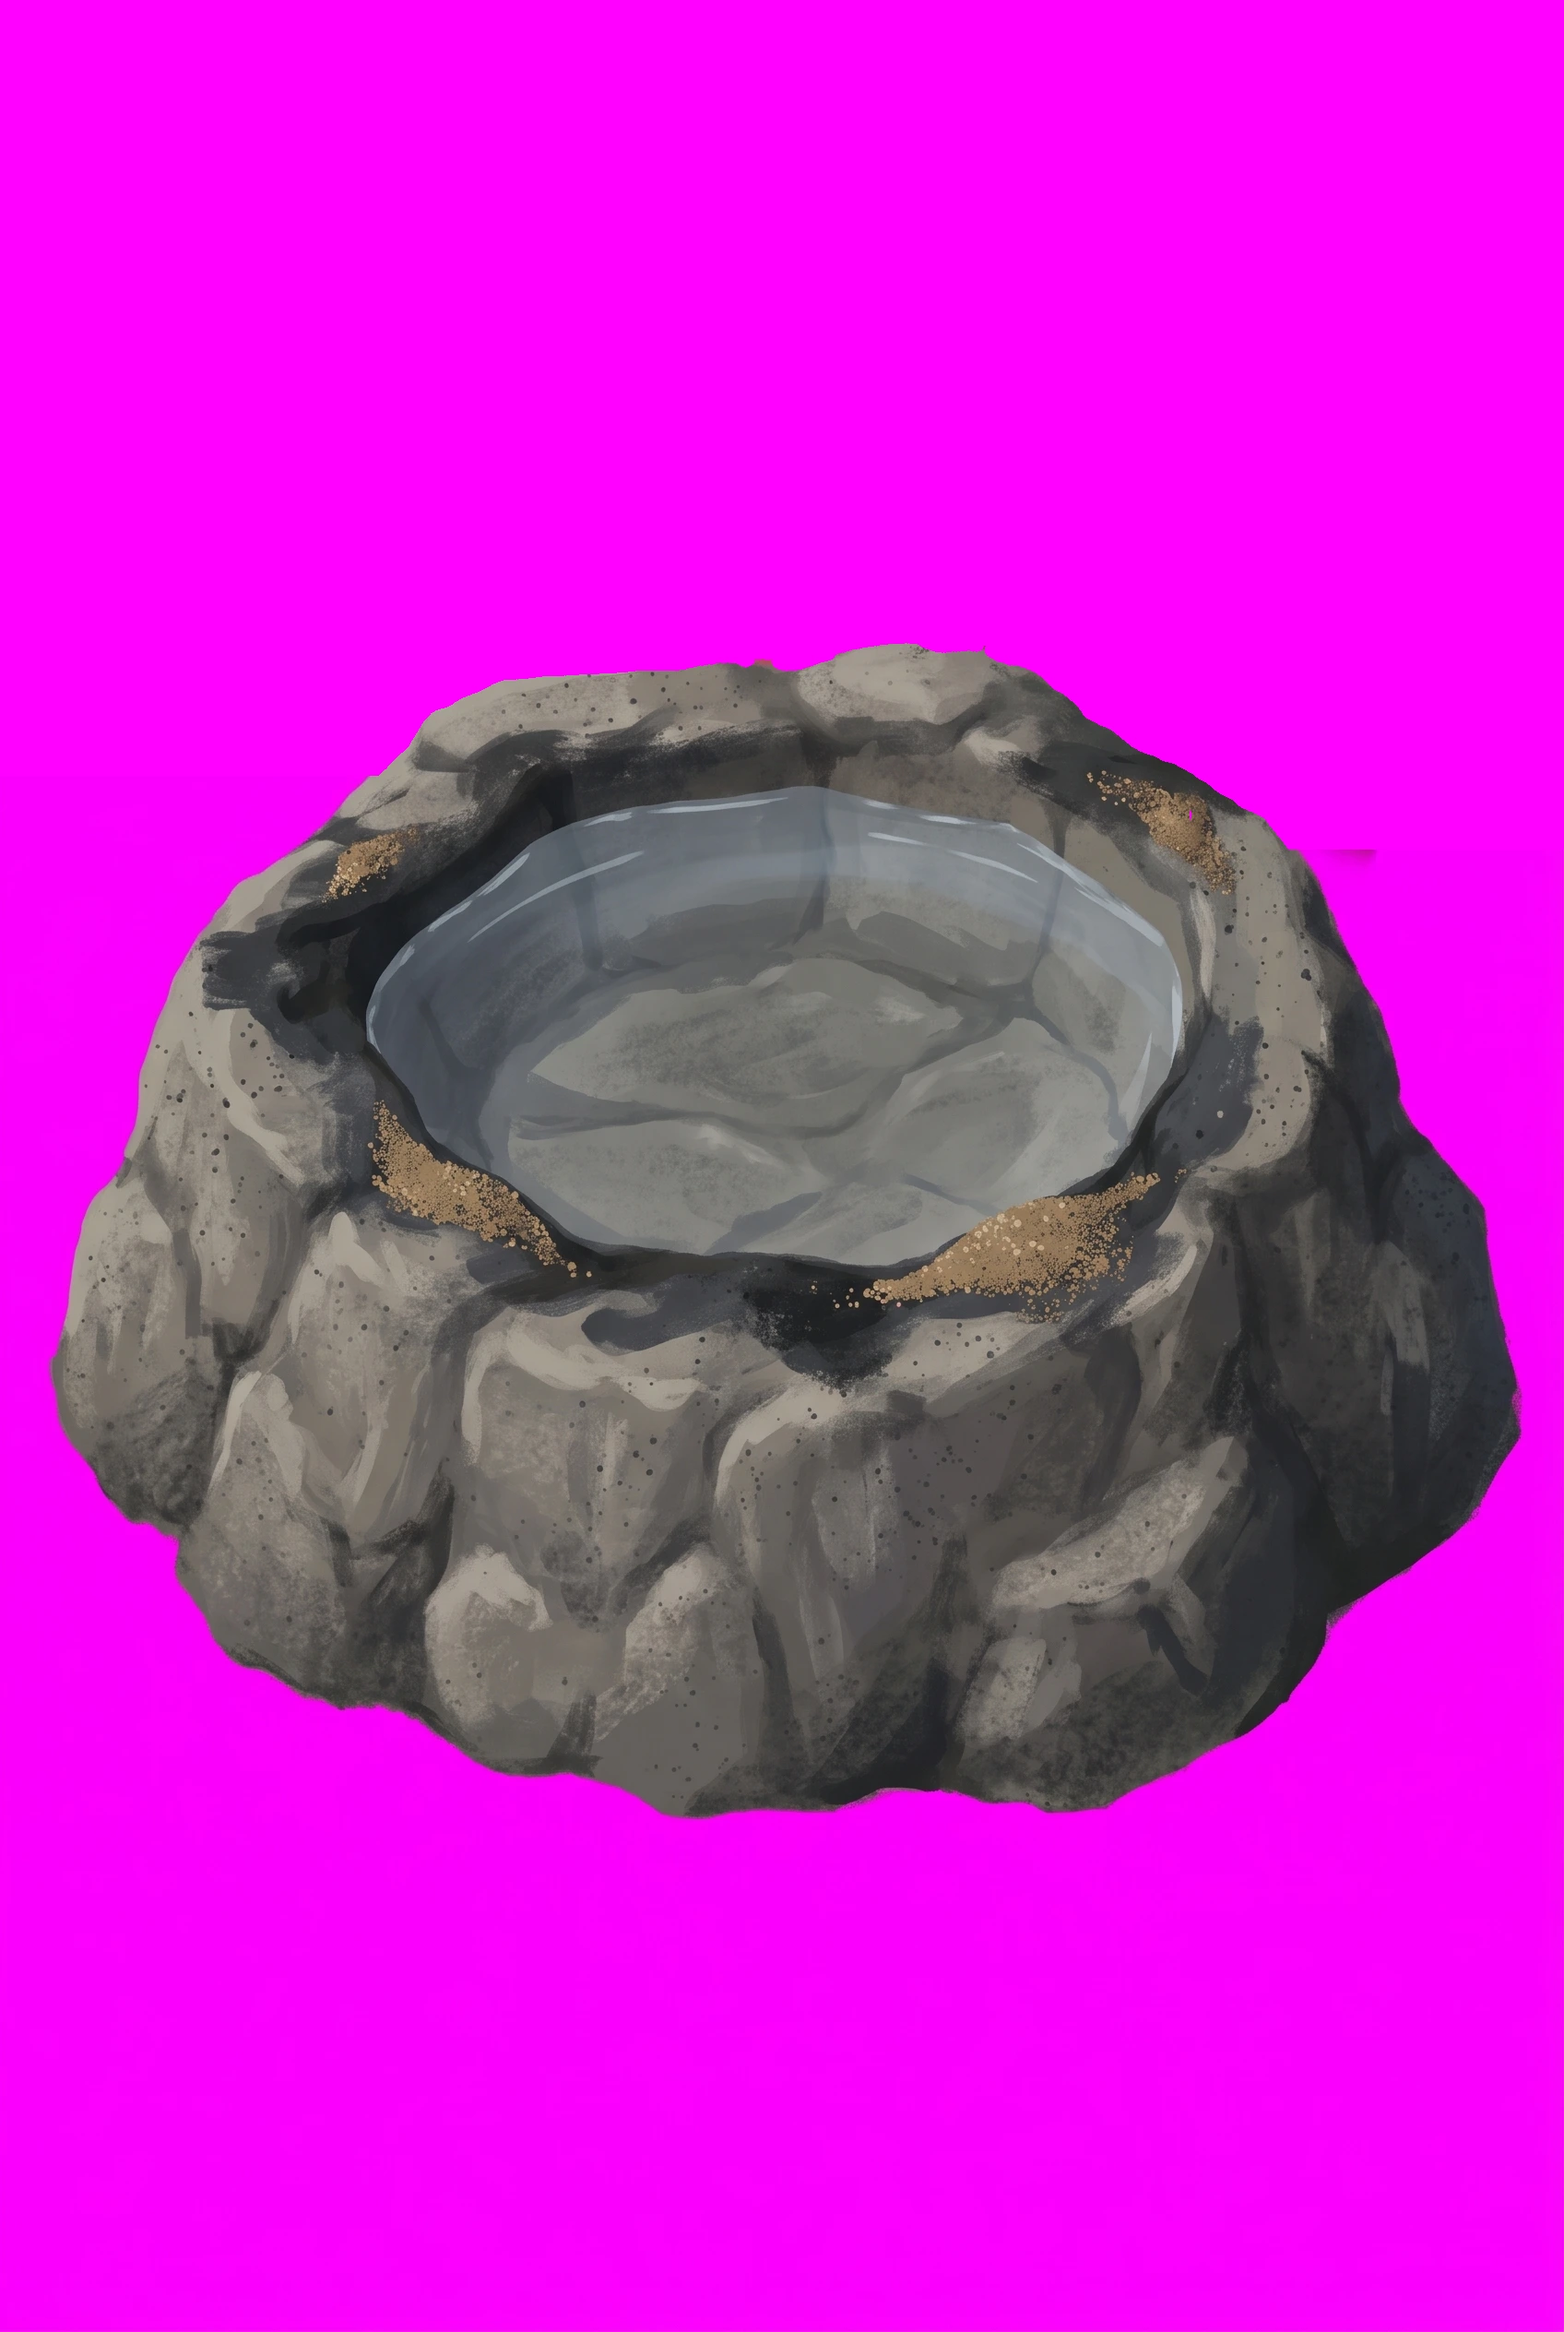
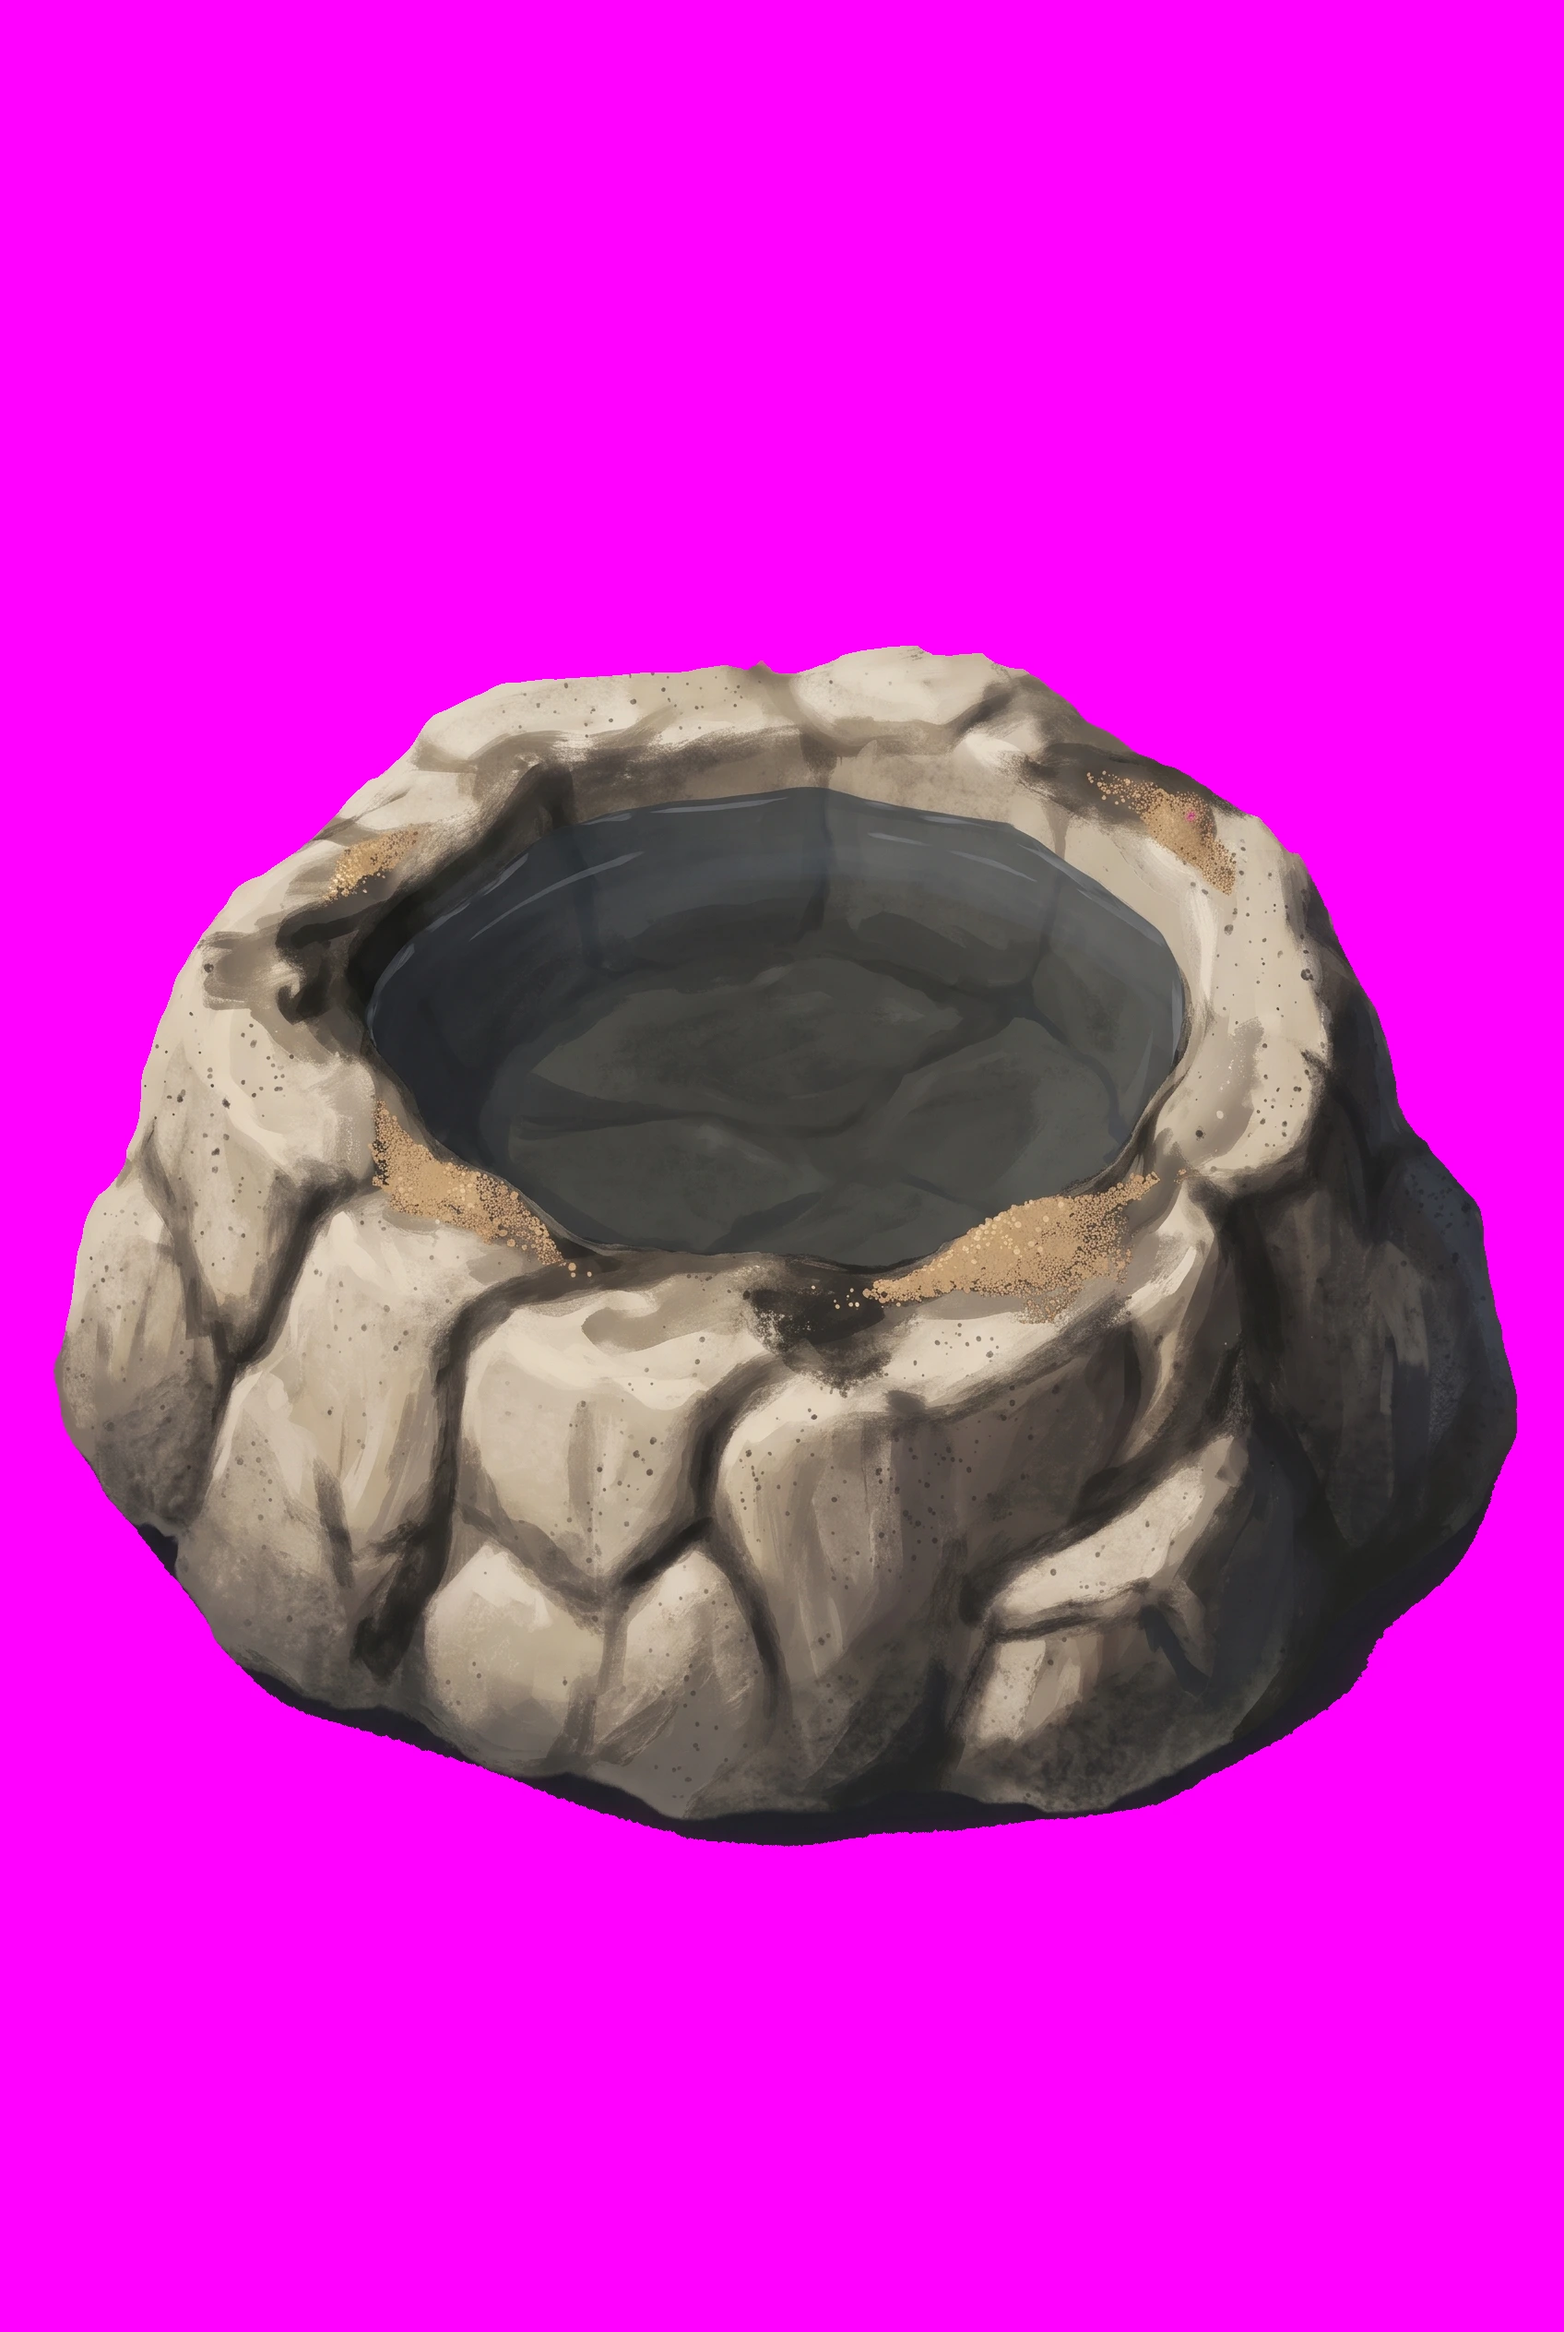
feat: the cave's rock pool, repainted lit
Claude-Session: https://claude.ai/code/session_01NQk9Q1WZoZfDzoRioyXby1

diff --git a/docs/instructions/repaint-queue.md b/docs/instructions/repaint-queue.md
@@ -359,7 +359,9 @@ hieroglyphs, no watermark, no frame, no border.
 It is about twice as wide as it is tall: a low mound of rock, knee-high.
 ```
 
-**Import:** `yarn import-tile art/masters/props/cave/basin.webp --tier=cave --name=basin --slot=prop --filter=smooth`
+**Prepare:** `art/deshadow.sh <render> clean.png art/masters/props/cave/basin-shadow.png`, keep `clean.png` as the master (the shadow comes back magenta).
+
+**Import:** `yarn import-tile art/masters/props/cave/basin.webp --tier=cave --name=basin --slot=prop --filter=smooth --seat=art/masters/props/cave/basin-shadow.png --seat-opacity=0.55`
 
 ### `cave/pillar` — a dripstone column
 
